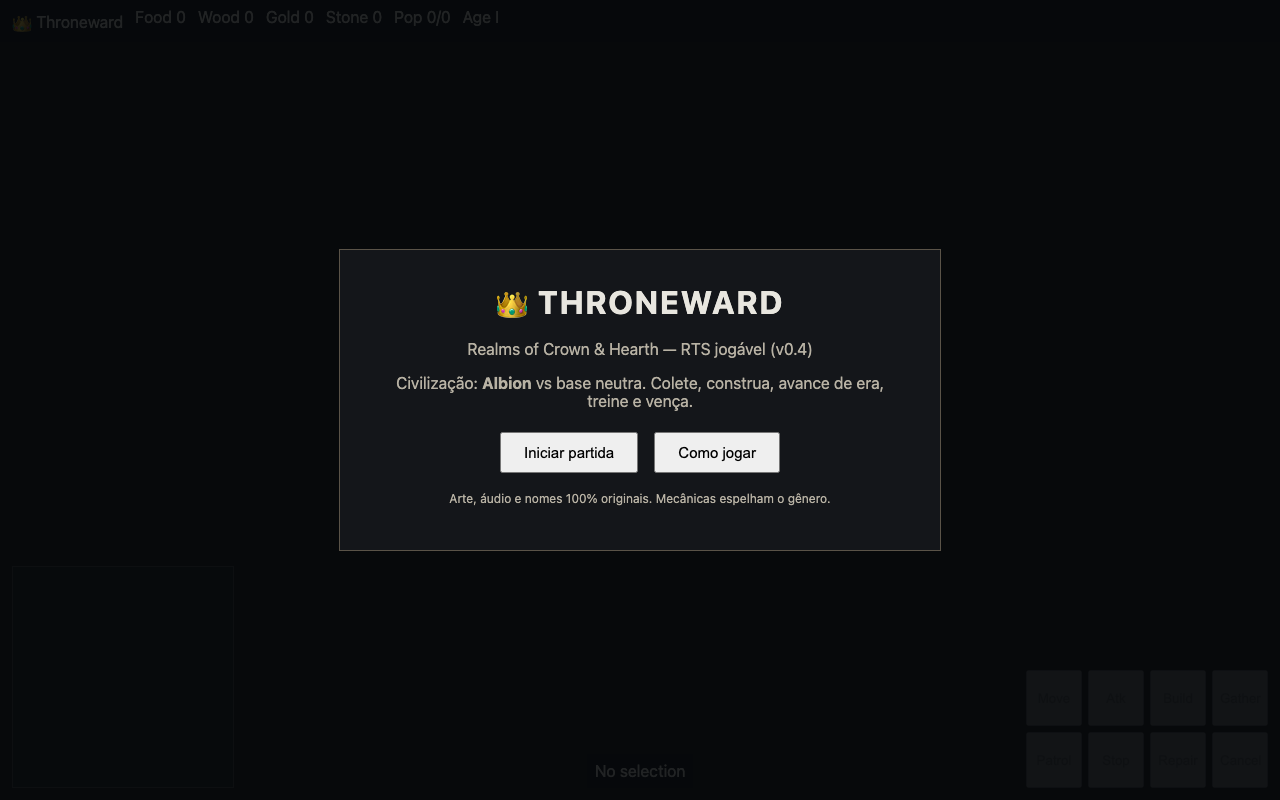
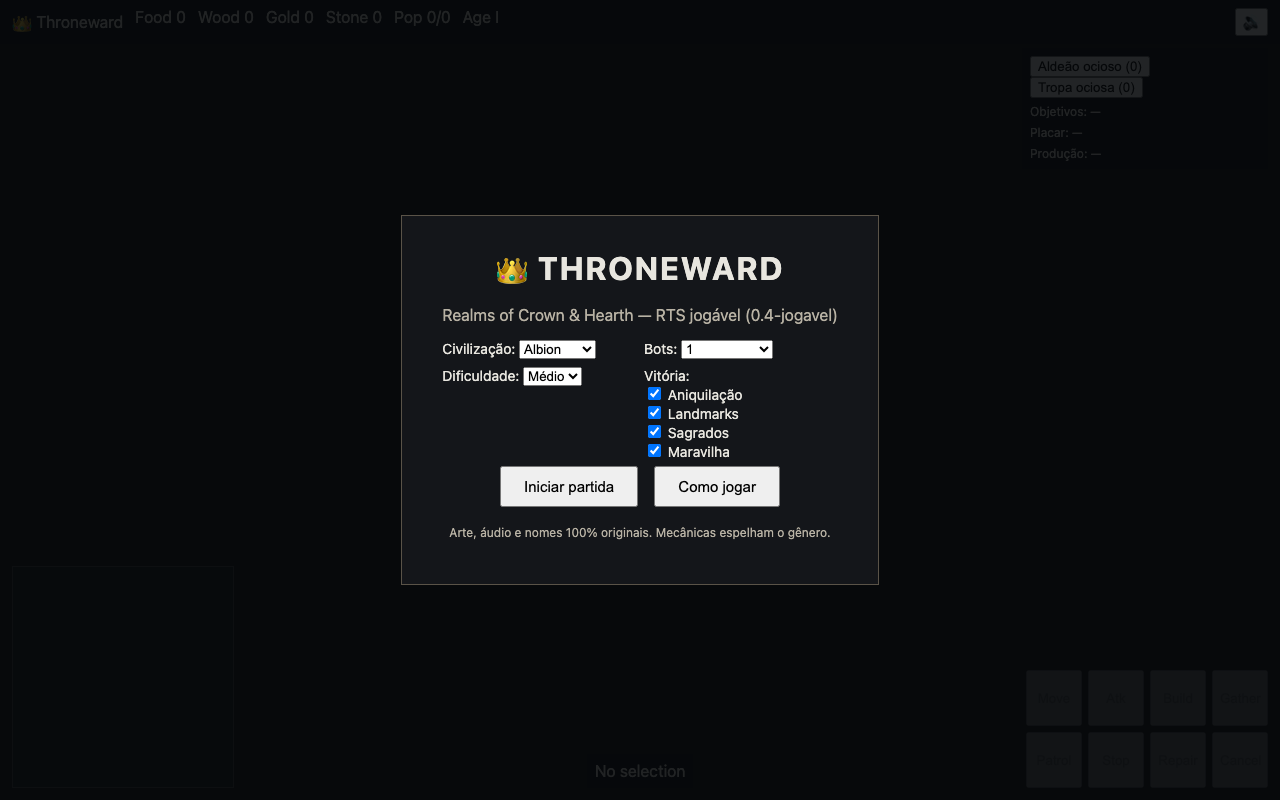
Menu com versao dinamica + asserts painel HP/fila

Changed region(s): [[0.3125, 0.3125, 0.6875, 0.6875], [0.7812, 0.0625, 0.9062, 0.125], [0.9688, 0.0, 1.0, 0.0625]]

diff --git a/src/main.ts b/src/main.ts
@@ -19,6 +19,9 @@ const WARRIOR_KINDS = new Set<string>([
 ]);
 import { clickSelect, boxSelect, doubleClickSelect, ControlGroups } from './sim/selection';
 
+// Versão exibida no menu e exposta no __game (fonte única).
+export const GAME_VERSION = '0.4-jogavel';
+
 // Fase 1 integration: seeded terrain mesh + forest instancing + RTS camera + minimap + units.
 
 const SEED = 1234;
@@ -429,7 +432,7 @@ export function boot(cfg: SkirmishConfig = DEFAULT_SKIRMISH): { sim: Sim; render
       }
       return { ok: false, error: 'unknown command' };
     },
-    version: '0.3-hud-vivo'
+    version: GAME_VERSION
   };
 
   // Camada de unidades: um Group por unidade (templates por tipo+jogador).
@@ -1033,6 +1036,10 @@ export function boot(cfg: SkirmishConfig = DEFAULT_SKIRMISH): { sim: Sim; render
 
 // Menu: ?test=1 inicia direto (e2e); senão o jogador configura o skirmish e clica em Iniciar.
 const TEST_MODE = typeof location !== 'undefined' && location.search.includes('test=1');
+{
+  const mv = document.getElementById('menu-version');
+  if (mv) mv.textContent = GAME_VERSION;
+}
 
 function readSkirmish(): SkirmishConfig {
   const civ = (document.getElementById('sel-civ') as HTMLSelectElement | null)?.value ?? 'albion';

diff --git a/index.html b/index.html
@@ -49,7 +49,7 @@
   <div id="banner"><div id="banner-card"></div></div>
   <div id="menu"><div id="menu-card">
     <h1>👑 THRONEWARD</h1>
-    <p>Realms of Crown &amp; Hearth — RTS jogável (v0.4)</p>
+    <p>Realms of Crown &amp; Hearth — RTS jogável (<span id="menu-version">…</span>)</p>
     <div style="display:grid;grid-template-columns:1fr 1fr;gap:8px;text-align:left;font-size:14px">
       <label>Civilização: <select id="sel-civ"><option value="albion">Albion</option><option value="gallia">Gallia</option><option value="generic">Genérica</option></select></label>
       <label>Bots: <select id="sel-bots"><option value="0">0 (sossego)</option><option value="1" selected>1</option><option value="2">2</option><option value="3">3</option></select></label>

diff --git a/e2e/ui.spec.ts b/e2e/ui.spec.ts
@@ -70,6 +70,9 @@ test('full loop by mouse: select, build, train, advance', async ({ page }) => {
   expect(tcSelected).toBe(true);
   const nBefore = st.units.length;
   await page.click('[data-act="train-villager"]');
+  // Painel mostra HP e fila com progresso (D1/D2).
+  await expect(page.locator('#selection')).toContainText('HP', { timeout: 5000 });
+  await expect(page.locator('#selection')).toContainText('fila', { timeout: 5000 });
   await cmd(page, { type: 'tick', seconds: 25 });
   await expect
     .poll(async () => (await snap(page)).units.length, { timeout: 10000 })
